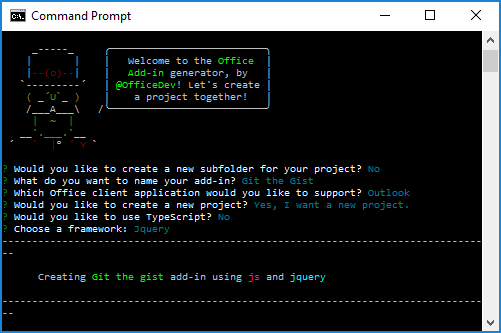
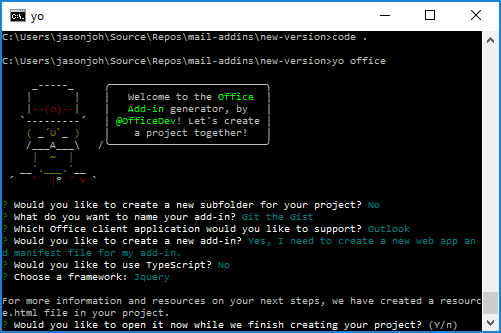
Updated add-in tutorial for released generator

diff --git a/docs/addins/addin-tutorial.md b/docs/addins/addin-tutorial.md
@@ -13,7 +13,7 @@ ms.author: jasonjoh
 
 The purpose of this guide is to walk through the process of creating an Outlook add-in that allows the user to access their [Gists](https://gist.github.com/) on GitHub. The source code in this [repository](https://github.com/jasonjoh/git-the-gist) is what you should end up with if you follow the steps outline here.
 
-This tutorial will use the [Microsoft Office Project Generator Beta](https://github.com/officedev/generator-office/tree/beta) to generate an add-in project.
+This tutorial will use the [Microsoft Office Add-in Project Generator](https://github.com/officedev/generator-office) to generate an add-in project.
 
 ## Prerequisites
 
@@ -21,12 +21,12 @@ Outlook add-ins are comprised of HTML, CSS, and JavaScript files, so technically
 
 - [Node.js](https://nodejs.org)
 - [Yeoman](https://yeoman.io/)
-- [Microsoft Office Project Generator Beta](https://github.com/officedev/generator-office/beta)
+- [Microsoft Office Add-in Project Generator](https://github.com/officedev/generator-office)
 
 > [!TIP]
 > Once you have Node.js installed, you can install all of the other prerequisites via NPM:
 > 
->     npm install -g typings yo generator-office@1.0.0-beta.1
+>     npm install -g yo generator-office
 
 You will also need Outlook 2016 connected to an Office 365 account, Outlook.com account, or a Microsoft Exchange Server and a GitHub account to test all of the features of the add-in we're going to create.
 
@@ -37,25 +37,35 @@ Open your command prompt/shell in an empty directory. Enter `yo office` and foll
 - **Would you like to create a new subfolder for your project?:** `No`
 - **What would you want to name your add-in?:** `Git the Gist`
 - **Which Office client application would you like to support?:** `Outlook`
-- **Would you like to create a new project?:** `Yes, I want a new project`
+- **Would you like to create a new project?:** `Yes, I need to create a new web app and manifest file for my add-in`
 - **Would you like to use TypeScript?:** `No`
 - **Choose a framework:** `Jquery`
 
+The generator will then ask you if you want to open resource.html. It isn't necessary to open it for this tutorial, but feel free to open it if you're curious! Choose yes or no to complete the wizard and allow the generator to do its work.
+
 ![A screenshot of the Microsoft Office Project Generator prompts](images/addin-tutorial/yeoman-prompts.PNG)
 
-The generator will create the project and install supporting Node components. When it is done, it will prompt asking if you want to open resource.html. It isn't necessary to open it for this tutorial, but feel free to open it if you're curious!
-
-> [!NOTE]
-> In the current beta, we need to fix the manifest before it will load:
-> 
-> 1. Find the `<bt:Url>` element with `id="functionFile"` and remove the `~` from the beginning of the URL.
+The generator will create the project and install supporting Node components.
 
 ### Test the generated add-in
 
 Before we start writing any code, let's test the basic add-in generated by the generator. That way we'll know that we have a working starting point.
 
+#### Update the manifest
+
+Before we load the add-in, we need to make one change to the manifest file. The generator adds a placeholder value for the `SupportUrl` element which is not a valid URL. This makes the file fail validation.
+
+Open the `git-the-gist-manifest.xml` and locate the `SupportUrl` element. Remove or comment the line and save your changes before you continue.
+
+```xml
+<!--If you plan to submit this add-in to the Office Store, uncomment the SupportUrl element below-->
+<!--<SupportUrl DefaultValue="[Insert the URL of a page that provides support information for the app]" />-->
+```
+
+#### Sideload the add-in
+
 1. In your command prompt/shell, make sure you are in the root directory of your project, and enter `npm start`. This will start a web server at `https://localhost:3000` and open your default browser to that address.
-    - If your browser indicates that the site's certificate is not trusted, you will need to add the certificate as a trusted certificate. Outlook will not load add-ins if the site is not trusted. See [Adding Self-Signed Certificates as Trusted Root Certificate](https://github.com/OfficeDev/generator-office/blob/beta/src/docs/ssl.md) for details.
+    - If your browser indicates that the site's certificate is not trusted, you will need to add the certificate as a trusted certificate. Outlook will not load add-ins if the site is not trusted. See [Adding Self-Signed Certificates as Trusted Root Certificate](https://github.com/OfficeDev/generator-office/blob/master/src/docs/ssl.mdnp) for details.
     - If the browser does not indicate a problem with the certificate, proceed to the next step.
 1. Open Outlook 2016. On the **Home** tab in the ribbon, click the **Store** button.
 1. In the Store UI, click the text **Click here to add a custom add-in**, and select **Add from file...**. Browse to the `git-the-gist-manifest.xml` file and click **Open**. Click **Install** when prompted.
@@ -102,9 +112,9 @@ Locate the line in the manifest that reads `</DesktopFormFactor>`. Above this li
           <Description resid="insertGistDesc"/>
         </Supertip>
         <Icon>
-          <bt:Image size="16" resid="icon-16"/>
-          <bt:Image size="32" resid="icon-32"/>
-          <bt:Image size="80" resid="icon-80"/>
+          <bt:Image size="16" resid="icon16"/>
+          <bt:Image size="32" resid="icon32"/>
+          <bt:Image size="80" resid="icon80"/>
         </Icon>
         <Action xsi:type="ShowTaskpane">
           <SourceLocation resid="insertGistPaneUrl" />
@@ -117,9 +127,9 @@ Locate the line in the manifest that reads `</DesktopFormFactor>`. Above this li
           <Description resid="insertDefaultGistDesc"/>
         </Supertip>
         <Icon>
-          <bt:Image size="16" resid="icon-16"/>
-          <bt:Image size="32" resid="icon-32"/>
-          <bt:Image size="80" resid="icon-80"/>
+          <bt:Image size="16" resid="icon16"/>
+          <bt:Image size="32" resid="icon32"/>
+          <bt:Image size="80" resid="icon80"/>
         </Icon>
         <Action xsi:type="ExecuteFunction">
           <FunctionName>insertDefaultGist</FunctionName>
@@ -485,15 +495,16 @@ We'll start with the **Insert Default Gist** button. This button simply executes
 
 The goal for this button is to check if the add-in has been configured yet. If it has, then it will load the content of the gist that the user has selected as default and insert it into the body. If it hasn't, then it will present the settings dialog. However, it's a little strange to just present the settings dialog to the user without some explanation. So in this case, we'll show the message bar included in the dialog's HTML to give the user some idea why they're seeing the dialog.
 
-Let's start by creating our function file. Any functions that are invoked by a UI-less button must be defined in the function file specified by the `FunctoinFile` element in the manifest for the corresponding form factor. Our manifest has this defined as `https://localhost:3000/function-file/function-file.html`. Create a folder named `function-file` in the root of the project, then create `function-file.html` insdie that folder. Add the following code.
+Let's start by creating our function file. Any functions that are invoked by a UI-less button must be defined in the function file specified by the `FunctionFile` element in the manifest for the corresponding form factor. Our manifest has this defined as `https://localhost:3000/function-file/function-file.html`. Open the `./function-file/function-file.html` file and update the code inside to look like the following.
 
 ```html
 <!DOCTYPE html>
 <html>
+
 <head>
     <meta charset="UTF-8" />
     <meta http-equiv="X-UA-Compatible" content="IE=Edge" />
-    <title></title>
+
     <!-- Office JavaScript API -->
     <script type="text/javascript" src="https://appsforoffice.microsoft.com/lib/1.1/hosted/office.debug.js"></script>
 
@@ -502,20 +513,21 @@ Let's start by creating our function file. Any functions that are invoked by a U
     <script type="text/javascript" src="../node_modules/urijs/src/URI.min.js"></script>
     <script type="text/javascript" src="../helpers/addin-config.js"></script>
     <script type="text/javascript" src="../helpers/gist-api.js"></script>
-    <script src="function-file.js" type="text/javascript"></script>
+    <script type="text/javascript" src="function-file.js"></script>
 </head>
+
 <body>
-<!-- NOTE: The body is empty on purpose. Since this is invoked via a button, there
-     is no UI to render. -->
+  <!-- NOTE: The body is empty on purpose. Since function in function-file.js are
+       invoked via a button, there is no UI to render. -->
 </body>
+
 </html>
 ```
 
 Notice that one of the script tags references [Showdown](https://github.com/showdownjs/showdown), which we'll use later to convert Markdown to HTML. Another tag references [URI.js](https://github.com/medialize/URI.js), which we use to build relative URLs. We need to install these libraries. Open your command prompt/shell to the root of the project and run the following command.
 
 ```shell
-npm install showdown --save
-npm install urijs --save
+npm install showdown urijs --save
 ```
 
 We also referenced `addin-config.js`, which doesn't exist yet. Create the file in the `helpers` folder and add the following code.
@@ -538,17 +550,19 @@ function setConfig(config, callback) {
 }
 ```
 
-This makes use of the [`RoamingSettings` object](https://dev.office.com/reference/add-ins/outlook/RoamingSettings) to get or set the configuration values.
+This makes use of the [`RoamingSettings` object](https://dev.office.com/reference/add-ins/outlook/1.5/RoamingSettings?product=outlook) to get or set the configuration values.
 
-Now create a file named `function-file.js` in the `function-file` folder, and add the following code:
+Now open the `function-file.js` file in the `function-file` folder, and replace the contents with the following code:
 
 ```js
 var config;
 
-Office.initialize = function () {
+// The initialize function must be run each time a new page is loaded
+Office.initialize = function (reason) {
   config = getConfig();
 };
 
+// Add any ui-less function here
 function showError(error) {
   Office.context.mailbox.item.notificationMessages.replaceAsync('github-error', {
     type: 'errorMessage',
@@ -676,7 +690,7 @@ The **Insert Default Gist** button should now work. Save all of your changes and
 
 ![A screenshot of the add-in's prompt to configure](images/addin-tutorial/addin-prompt-configure.PNG)
 
-Click the **Settings** button and enter your GitHub username. Press **Tab** to invoke the `change` event, which should load your list of gists. Select a gist to be the default, and click **Done**.
+Enter your GitHub username. Press **Tab** to invoke the `change` event, which should load your list of gists. Select a gist to be the default, and click **Done**.
 
 > [!NOTE]
 > If you don't have any gists on GitHub, go create some!
